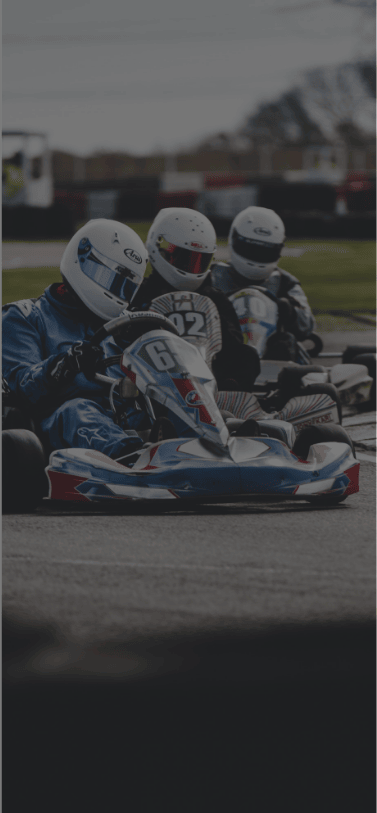
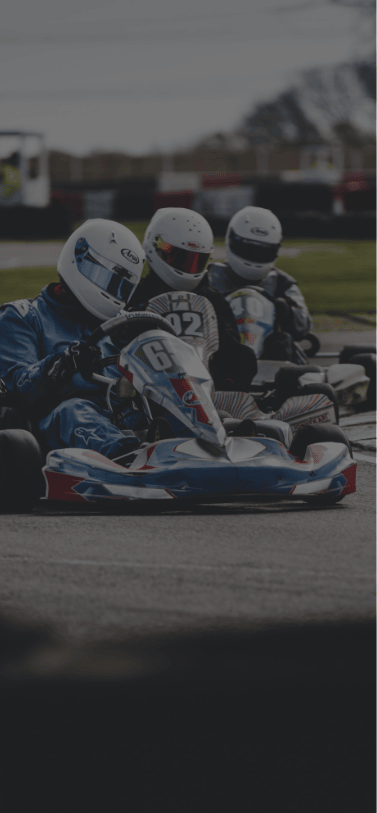
1.21

diff --git a/style-index.css b/style-index.css
@@ -137,6 +137,7 @@ a{ text-decoration: none; color: #292829; cursor: pointer;}
 .hero{
   background-image: url('resources/hero-bg.webp');
   background-size: cover;
+  background-position: center;
   width: 100vw;
   height: 41vw;
   padding-top: 17vw;
